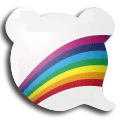
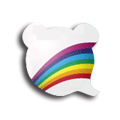
1.前台图标2次修改问题

diff --git a/views/mobile/include/detail/det_foot.html b/views/mobile/include/detail/det_foot.html
@@ -13,7 +13,7 @@
 
  		{if:isset($server_num)}
 			{if:$server_num}
-            <div class="s-btn s-cd" data="sales" {if:$width==1}style="width:25%;top:-2px;"{/if}>
+            <div class="s-btn s-cd" data="sales" {if:$width==1}style="width:25%;"{/if}>
 				<a href="{echo:Sonline::getChatUrl($server_num)}">
 	             	 <p><img src="{skin:images/detail_img/qq.png}"  alt="qq"/></p>
 	             	 <p>客&nbsp;服</p>
@@ -26,7 +26,7 @@
 			<div id="BDBridgeFixedWrap"></div>
 			</div>
 		{/if}
-            <div class="s-btn s-cd" data="price"  {if:$width==1}style="width:25%;"{/if}>
+            <div class="s-btn s-cd" data="price" style="top:7px;"{if:$width==1}style="width:25%;top:7px;"{/if}>
 				<a href="javascript:void(0);" onclick='favorite_add(this)'>
 					{if:isset($favorite_id_arr)&&in_array($id,$favorite_id_arr)}
 					<p><img src="{skin:images/detail_img/ygz.png}"  /></p>
